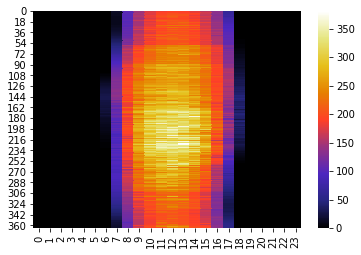
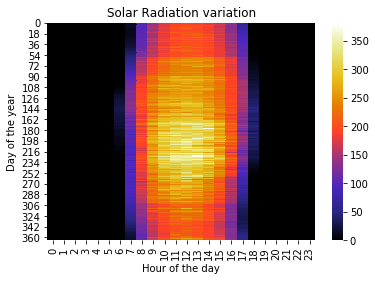
Added labels and title to 2D Solar Radiation

diff --git a/Data Representation.py b/Data Representation.py
@@ -32,3 +32,6 @@ data = data.drop([ '1',  '2',  '3',  '4',  '5',  '6',  '7',  '8',  '9', '10', '1
        '13', '14', '15', '16', '17', '18', '19', '20', '21', '22', '23'], axis=1)
 data.head()
 sns.heatmap(data.to_numpy(), cmap="CMRmap")
+plt.xlabel("Hour of the day")
+plt.ylabel("Day of the year")
+plt.title("Solar Radiation variation")
